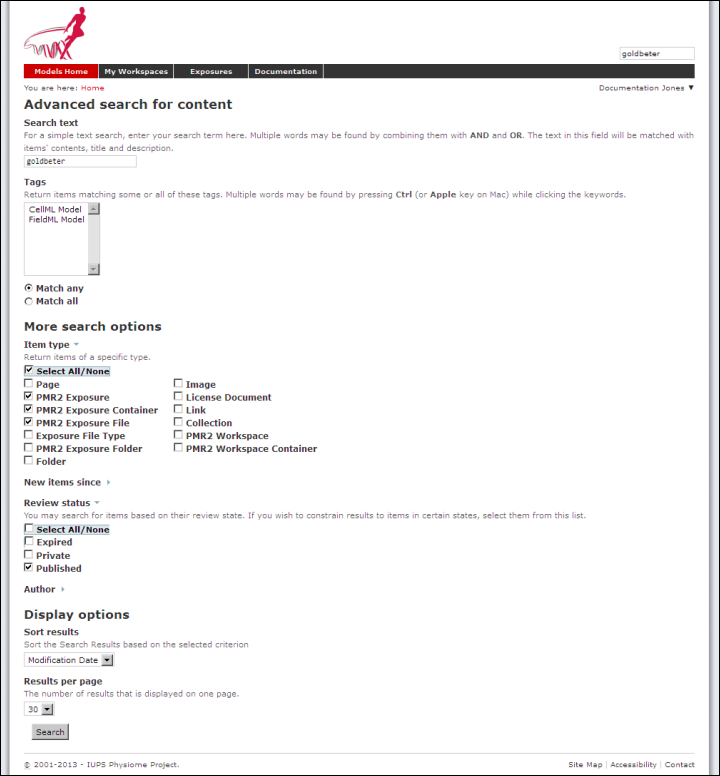
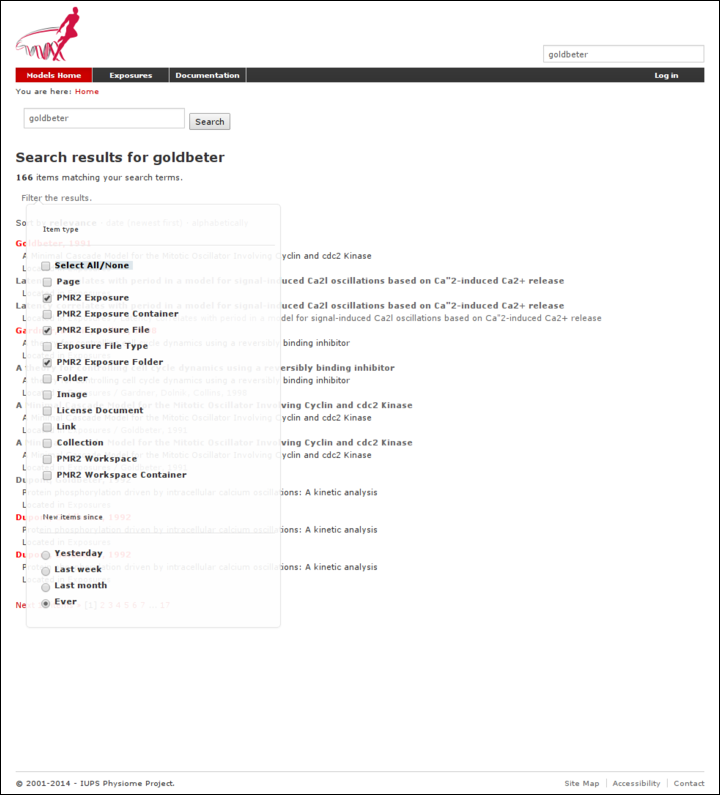
A blob of updates
- Text cleaned up
- Screenshots all retaken.

Changed region(s): [[0.0, 0.0, 1.0, 1.0], [0.3972, 0.7113, 0.5194, 0.7423]]

diff --git a/exposing-cellml.rst b/exposing-cellml.rst
@@ -60,7 +60,10 @@ or collaboration, or see the :ref:`relevant section of the tutorial
 
 At this point you are recommended to submit the workspace for
 publication, using the *state:* menu at the top right of the workspace
-view page.
+view page.  This is especially important if you decide to make an
+exposure public, as having a private workspace for a public exposure
+will impede access of linked data, such as images for the introduction
+to that particular exposure.
 
 .. figure:: /images/submitworkspaceforpublication.png
    :align: center
@@ -136,6 +139,14 @@ the wizard, where you can select various options for the model you have
 chosen to expose, and will allow you to add further model files to the
 exposure if desired.
 
+.. figure:: /images/wizard2.png
+   :align: center
+
+   Note that if your workspace is not publicly accessible, there will
+   be an informative note for this which you can safely ignore as there
+   are no process within the generation of the exposure that must
+   require a publicly accessible workspace.
+
 The wizard shows a *subgroup* for each CellML file to be included in the
 exposure.  For each CellML file, select the following options:
 
@@ -149,21 +160,24 @@ exposure.  For each CellML file, select the following options:
 - License and Citation
    - File/Citation format - select CellML RDF metadata to automatically
      generate a citation page using the model RDF
-   - License - select Creative Commons Attributions 3.0 Unported
+   - License - select Creative Commons Attributions 3.0 Unported, in the
+     cases where the above option is unsuitable.
 - Source Viewer
    - Language Type - select xml
 - OpenCell Session Link
    - Session File - select the session.xml if it has been created
 
-.. figure:: /images/wizard2.png
+.. figure:: /images/wizard3.png
    :align: center
 
    **Selecting options for the model file subgroup**
 
-After selecting the subgroup options, you need to click the *Update*
-button to set the chosen options for the exposure builder. If you do not
-update the subgroup, the options you selected will be replaced by the
-default options when you click *Build*.
+After selecting the subgroup options, you need to select the *Update*
+button to apply the chosen options for the exposure builder, as this is
+an independent subform to the main form.  The options you selected will
+be ignored if this *Update* button is not selected, and the options will
+be replaced by the default options when you click *Build* before this
+was done.
 
 For exposures where you wish to expose multiple models, click on the
 *Add file* button at this stage to create another subgroup. You can then
@@ -175,9 +189,16 @@ After setting all the options for the models you wish to expose, click
 on the *Build* button. The repository software will then create the
 exposure pages and display the main page of the exposure.
 
+.. _submitting_exposure:
+
+Making your work publicly accessible
+------------------------------------
+
 In order to make the exposure visible and searchable, you will need to
-publish it. You can choose to submit your exposure for review, or if you
-have sufficient privileges you can publish it directly.
+publish it.  You can choose to submit your exposure for review, so that
+the repository administrators or curators will know to publish it for
+you.  Naturally, if you have sufficient privileges you can publish it
+directly.
 
 .. figure:: /images/exposurepublish.png
    :align: center
@@ -204,8 +225,8 @@ stored in the workspace and linked to from the HTML.
 - `Aslanidi et al. cardiac models encoded in C
   <http://models.cellml.org/e/ca>`_
 
-Making an exposure using "roll-over"
-====================================
+Making an exposure using "rollover"
+===================================
 
 As explained earlier, an :term:`exposure` aims to bring a particular
 revision to the attention of users who are browsing and searching the
@@ -221,9 +242,13 @@ as well, but this is not the usual usage.
 
 .. note::
    A forked workspace contains all of the revision history of the
-   workspace it was created from, but does not contain any of the
-   exposures that existed for the original workspace. You will always
-   need to create an exposure from scratch in newly forked repositories.
+   workspace it was created from, but has no linkages to any of the
+   exposures that existed for the original workspace.  However, you may
+   navigate to the history of the original workspace and select any
+   exposure, then select the wizard tab to the link to its exported
+   structure, from which the exposure can be migrated over.  Please
+   see :ref:`the section on migrating exposure
+   <exposurewizardimportexport>` for more details.
 
 From the view page of your workspace, select "exposure rollover".
 
@@ -246,11 +271,9 @@ The new exposure will be created and displayed. When a new exposure is
 created, it is initially put in the *private* state. This means that
 only the user who created it or other users with appropriate permissions
 can see it, and it will not appear in search results or model listings.
-In order to publish the exposure, you will need to select *submit for
-publication* from the *state* menu.
-
-.. figure:: /images/tut1-submitforpublication.png
-   :align: center
+In order to publish the exposure, you will need to select :ref:`submit
+for publication <submitting_exposure>` from the
+*state* menu.
 
 The state will change to "pending review". The administrator or curators
 of the repository will then review and publish the exposure, as well as

diff --git a/downloading-viewing.rst b/downloading-viewing.rst
@@ -44,13 +44,13 @@ narrow it down by choosing more or different keywords (*eg.* ``goldbeter
 1991`` instead of just ``goldbeter``), or you can click the *Advanced
 Search* link just under the search box on the results page. This will
 take you to a search page where you can select specific item types
-(*eg.* exposures or workspaces), statuses, and other specifics.
+(*eg.* exposures or workspaces).
 
 .. figure:: /images/tut1-advancedsearch.png
    :align: center
 
-   In this search I have chosen to only have published exposures in my
-   results.
+   In this search only exposure related items are to be shown in
+   the results.
 
 Once you have found the model you are interested in, there are several
 ways you can view or download it.
@@ -89,7 +89,7 @@ panel at the right hand side.
 - *Documentation* - displays the model documentation, already visible in
   the main area of the exposure page.
 - *Model Metadata* - displays information such as the citation
-  information, model authorship details, and PMR keywords.
+  information, model authorship details, and keywords.
 - *Model Curation* - displays the curation stars for the model, also
   visible at the top right of the page. Future additions to the curation
   system mean that there will be additional information to be displayed
@@ -121,28 +121,33 @@ OpenCell link looks something like this:
 Downloading models via Mercurial
 ================================
 
-All data in PMR are stored in :term:`workspaces` and each
-:term:`workspace` is a :term:`Mercurial` repository. The most
-comprehensive method of downloading content from PMR is to clone the
-workspace containing the desired data. In this manner you will have a
-local copy of the entire history of that data, including all provenance
-data, and the ability to step back through the history of the workspace
-to a state that may not be available via the download links in the
-exposure pages discussed above. If you would like to modify the contents
-of workspace, making use of Mercurial will ensure accurate provenance
-records are maintained as well as all the other benefits of using a
-version control system.
+All data in the Auckland Physiome Repository are stored in
+:term:`workspaces` and each :term:`workspace` is a :term:`Mercurial`
+repository. The most comprehensive method of downloading content from
+Auckland Physiome Repository is to clone the workspace containing the
+desired data. In this manner you will have a local copy of the entire
+history of that data, including all provenance data, and the ability to
+step back through the history of the workspace to a state that may not
+be available via the download links in the exposure pages discussed
+above. If you would like to modify the contents of workspace, making use
+of Mercurial will ensure accurate provenance records are maintained as
+well as all the other benefits of using a version control system.
 
 As software tools like `OpenCOR`_ and `MAP Client`_ evolve, they will be
 able to hide a lot of the Mercurial details and present the user with a
 user interface suitable for their specific application areas. Directly
 using Mercurial is, however, currently the most powerful way to leverage
-the full capabilities of PMR. Instructions for working with Mercurial
-can be found in the :ref:`CellML repository tutorial
-<cellmlrepositorytutorial-hg>`.
+the full capabilities of Auckland Physiome Repository.
+
+If you are using the command line Mercurial client, you can easily clone
+the underlying repository for an exposure simply by selecting the text
+box inside the **Collaboration** portlet and paste that command into a
+terminal, or right click on the name of the workspace under the
+**Source** portlet and copy that URL and then paste that into your
+Mercurial client.
+
+Detailed instructions for working with Mercurial can be found in the
+:ref:`CellML repository tutorial <cellmlrepositorytutorial-hg>`.
 
 .. _OpenCOR: http://abibook2.readthedocs.org/en/latest/OpenCOR/
 .. _MAP Client: http://abibook2.readthedocs.org/en/latest/MAP/
-
-.. todo::
-   Need to check this section on obtaining models via mercurial.

diff --git a/workingwithworkspaces.rst b/workingwithworkspaces.rst
@@ -42,14 +42,12 @@ shown below:
 
 .. figure:: /images/my-workspaces.png
    :align: center
-   :width: 80%
 
 The first paragraph includes a link to your dashboard to add a new
 workspace, shown below:
 
 .. figure:: /images/add-workspace-dashboard.png
    :align: center
-   :width: 80%
 
 Currently :term:`Mercurial` is the only avialable option for the storage
 method for a new workspace, but this may be expanded to include other
@@ -63,7 +61,6 @@ which will initially be empty, as shown below:
 
 .. figure:: /images/new-workspace.png
    :align: center
-   :width: 80%
 
 In the figure above, the URI of the newly created workspace has been
 highlighted. This is the URI that will be used when operating on the
@@ -74,7 +71,7 @@ workspace using Mercurial.
 Working with collaborators
 ==========================
 
-:term:`PMR2` makes use of :term:`Mercurial` to manage individual
+The repository makes use of :term:`Mercurial` to manage individual
 workspaces.  Mercurial is a Distributed Version Control System (DVCS),
 and as such encourages collaborative development of your model, dataset,
 results, *etc*. Using Mercurial, each member of the development team is
@@ -98,16 +95,27 @@ given workspace, as shown below.
 
 .. figure:: /images/sharingTab.png
    :align: center
-   :width: 80%
 
-By default, you will initially see the list of repository administrators
-and curators will have some permissions to access your workspace. Most
-of these can be turned off if you choose, but is generally not
-recommended as they will need access in most cases if you need help with
-your workspace. Using the :guilabel:`Sharing` tab you are able to search
-for other members, such as the names of people in your development
-team. These members would then appear in the list of members and you are
-able to set their access as required.
+By default, you will initially see that all logged-in user has the
+**Can add** permission.  That is the inherited permission from the
+global workspace container, and does not imply that they can view your
+work as that is determined by the **Can view** permission.  This also
+does not mean that they can add data to your workspace.  This permission
+setting is applied to the default workspace container so that you and
+all other users of the system have the ability to create new workspaces.
+
+:term:`PMR2` has the option to provide individual containers per user
+for their private workspaces, but this option is now disabled in the
+Auckland Physiome Repository.
+
+You can disable the inherited higher level permissions from your
+workspace by unchecking the **Inherit permissions from higher levels**
+checkbox, if you wish, but the administrators of the repository can
+access your workspace regardless if you wish for them to aid you with
+your workspace.  Using the :guilabel:`Sharing` tab you are able to
+search for other members, such as the names of people in your
+development team.  These members would then appear in the list of
+members and you are able to set their access as required.
 
 Using the :guilabel:`Sharing` controls there are currently four possible
 permissions that can be controlled. The **Can add** and **Can edit**

diff --git a/cellmlrepositorytutorial.rst b/cellmlrepositorytutorial.rst
@@ -108,10 +108,11 @@ in the repository are named by the first author and publication date of
 the paper, so a good search query might be something like `goldbeter
 1991`. A list of the results of your search will probably contain both
 workspaces and exposures - you will need to click on the workspace of
-the model you wish to work on. Workspaces can be identified because
-their links are pale blue and have no details line following the
-clickable link. In the following screenshot, the first two results are
-workspaces, and the remainder are exposures.
+the model you wish to work on. Workspaces can be identified by where
+they are located, as they will be located inside **Workspaces**.
+In the following screenshot, the first two results are workspaces, and
+the remainder are exposures.  Note that red links are exposures that are
+marked as expired.
 
 .. figure:: /images/tut1-searchresults.png
    :align: center
@@ -385,12 +386,13 @@ these steps:
 
 .. figure:: /images/synchronize-form.png
    :align: center
-   :width: 100%
 
 4. Fill in the URI of your workspace on the source instance (*e.g.,*
    `<http://models.physiomeproject.org/w/andre/cortassa-ECME-2006>`_)
 
 #. Click the :guilabel:`Synchronize` button.
+
+.. _exposurewizardimportexport:
 
 In a similar manner, you are able to copy :term:`exposures` you might
 have made on the teaching instance over to the main repository, or from
@@ -405,7 +407,6 @@ another.
 
 .. figure:: /images/exposure-wizard-highlight-export.png
    :align: center
-   :width: 100%
 
 3. In the destination repository, navigate to the desired revision of
    the (published) workspace and choose the :guilabel:`Create exposure`
@@ -417,7 +418,6 @@ another.
 
 .. figure:: /images/exposure-wizard-import-from-uri.png
    :align: center
-   :width: 100%
 
 5. Copy and paste the URI from the source exposure wizard, highlighted
    above, into the :guilabel:`Exposure Export URI` field in the exposure
